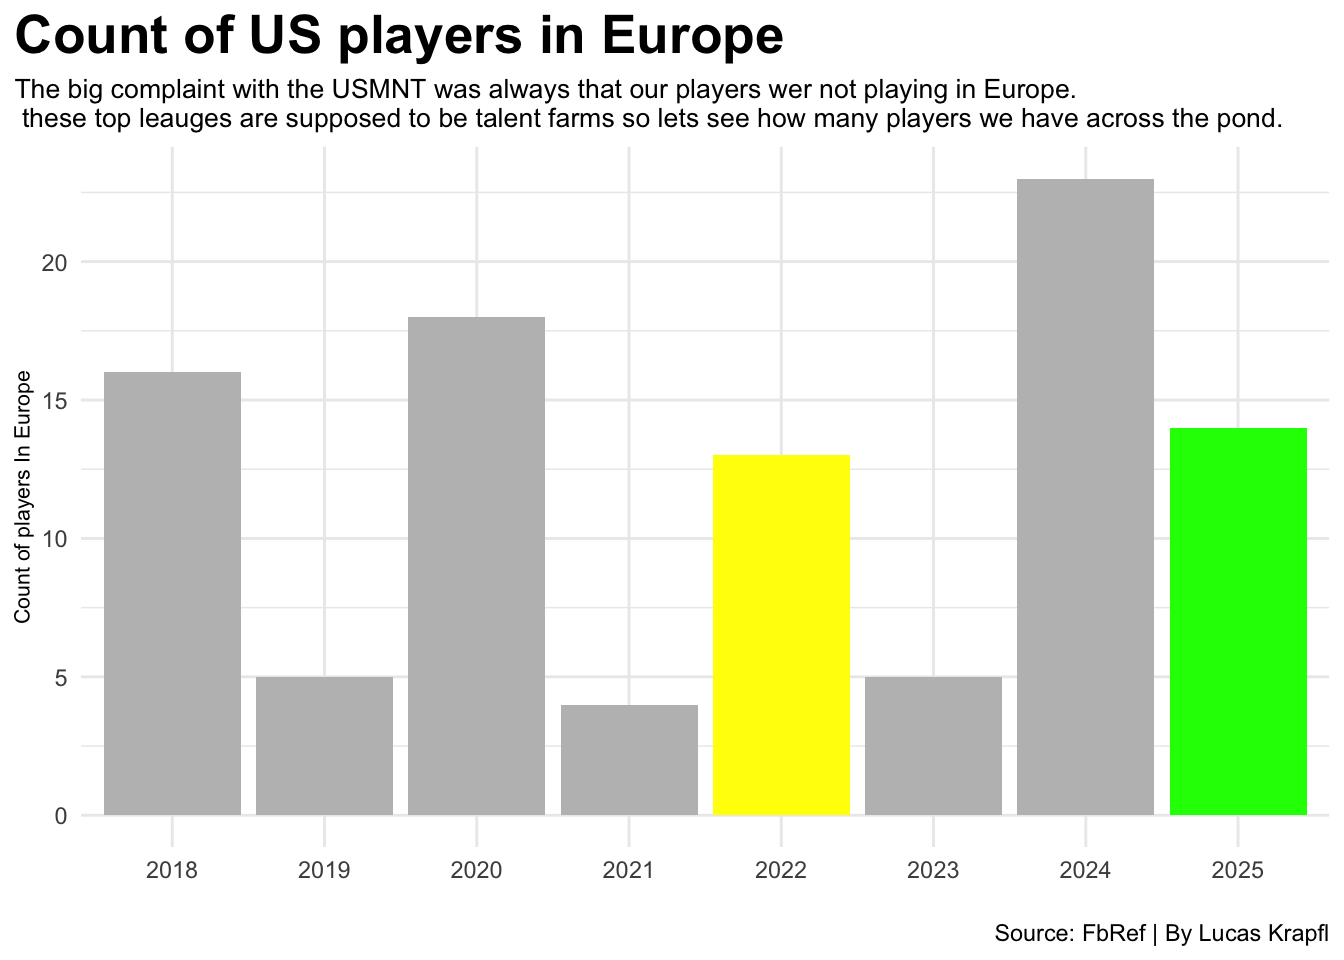
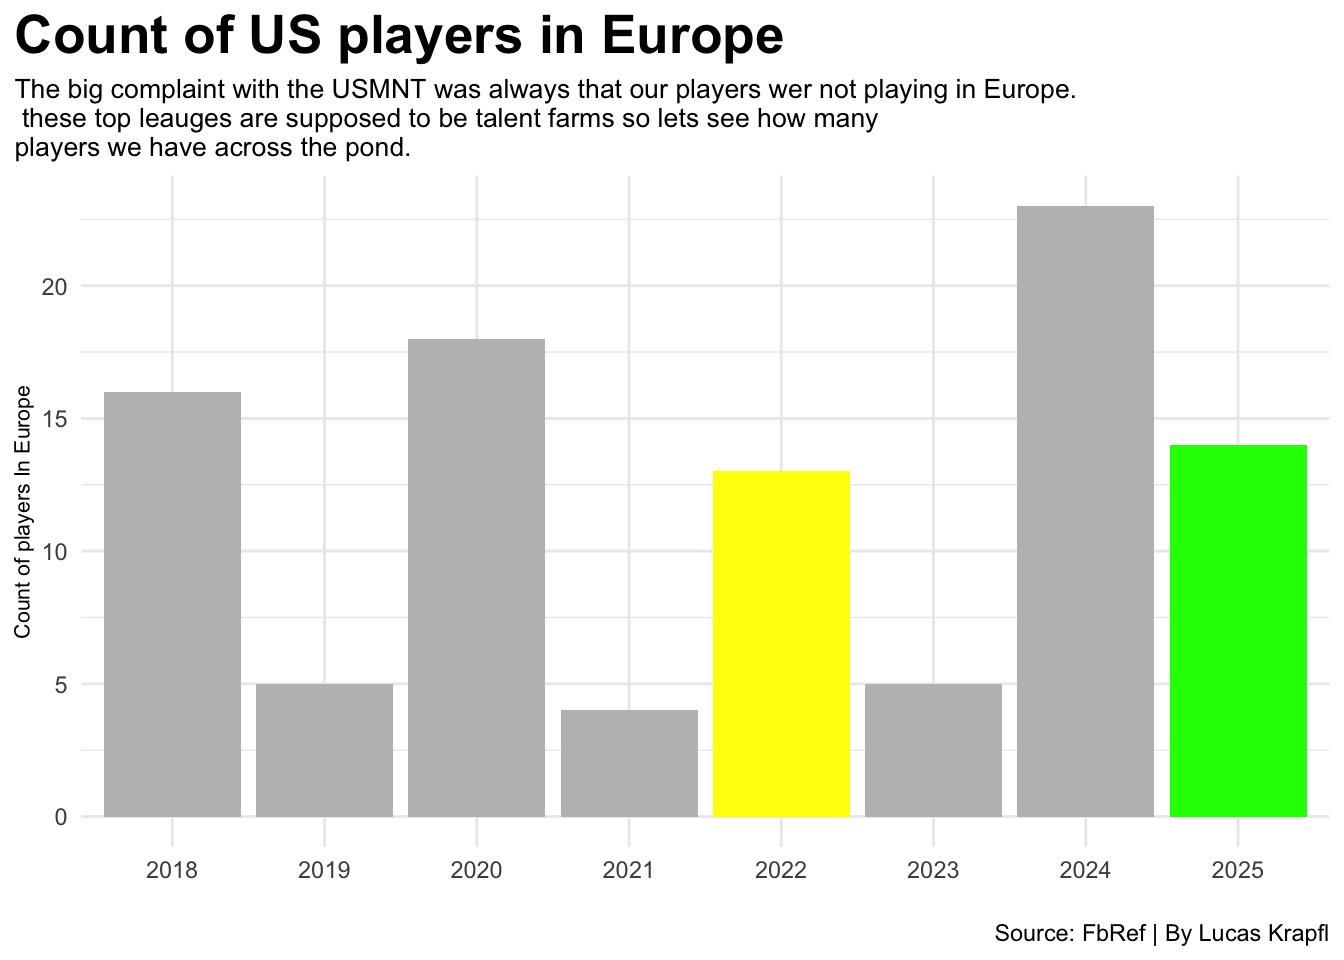
Major project 2 finishing touches

diff --git a/posts/USMNT-Project/index.html b/posts/USMNT-Project/index.html
@@ -407,7 +407,7 @@ pre > code.sourceCode > span > a:first-child::before { text-decoration: underlin
 <span id="cb2-2"><a href="#cb2-2" aria-hidden="true" tabindex="-1"></a>  <span class="fu">geom_bump</span>(<span class="at">data=</span>FifaRank, <span class="fu">aes</span>(<span class="at">x=</span>Year, <span class="at">y=</span>Rank, <span class="at">color=</span>Squad)) <span class="sc">+</span></span>
 <span id="cb2-3"><a href="#cb2-3" aria-hidden="true" tabindex="-1"></a>  <span class="fu">geom_point</span>(<span class="at">data=</span>FifaRank, <span class="fu">aes</span>(<span class="at">x=</span>Year, <span class="at">y=</span>Rank, <span class="at">color=</span>Squad), <span class="at">size =</span> <span class="dv">4</span>) <span class="sc">+</span></span>
 <span id="cb2-4"><a href="#cb2-4" aria-hidden="true" tabindex="-1"></a><span class="fu">scale_y_reverse</span>(<span class="at">breaks =</span> <span class="fu">seq</span>(<span class="dv">25</span>, <span class="dv">10</span>, <span class="sc">-</span><span class="dv">1</span>))<span class="sc">+</span></span>
-<span id="cb2-5"><a href="#cb2-5" aria-hidden="true" tabindex="-1"></a>  <span class="fu">labs</span>(<span class="at">title=</span><span class="st">"Offical Fifa world rankings since 2018"</span>, <span class="at">subtitle=</span><span class="st">"Ever since the crash and burn in 2018</span><span class="sc">\n</span><span class="st"> you have heard about the USMNT's 'golden generation', and the rankings reflect </span><span class="sc">\n</span><span class="st">that but are they accurate of the results?"</span>, <span class="at">y=</span> <span class="st">"Fifa World Ranking"</span>, <span class="at">x =</span> <span class="st">"Year"</span>, <span class="at">caption=</span><span class="st">"Source: FbRef | By Lucas Krapfl"</span>) <span class="sc">+</span></span>
+<span id="cb2-5"><a href="#cb2-5" aria-hidden="true" tabindex="-1"></a>  <span class="fu">labs</span>(<span class="at">title=</span><span class="st">"Offical Fifa world rankings since 2018"</span>, <span class="at">subtitle=</span><span class="st">"Ever since the crash and burn in 2018 you have heard about the USMNT's </span><span class="sc">\n</span><span class="st">'golden generation', and the rankings reflect that but are they accurate of the results?"</span>, <span class="at">y=</span> <span class="st">"Fifa World Ranking"</span>, <span class="at">x =</span> <span class="st">"Year"</span>, <span class="at">caption=</span><span class="st">"Source: FbRef | By Lucas Krapfl"</span>) <span class="sc">+</span></span>
 <span id="cb2-6"><a href="#cb2-6" aria-hidden="true" tabindex="-1"></a>  <span class="fu">theme_minimal</span>() <span class="sc">+</span></span>
 <span id="cb2-7"><a href="#cb2-7" aria-hidden="true" tabindex="-1"></a>  <span class="fu">theme</span>(</span>
 <span id="cb2-8"><a href="#cb2-8" aria-hidden="true" tabindex="-1"></a>    <span class="at">plot.title =</span> <span class="fu">element_text</span>(<span class="at">size =</span> <span class="dv">20</span>, <span class="at">face =</span> <span class="st">"bold"</span>),</span>
@@ -479,7 +479,7 @@ pre > code.sourceCode > span > a:first-child::before { text-decoration: underlin
 <span id="cb4-4"><a href="#cb4-4" aria-hidden="true" tabindex="-1"></a>  <span class="fu">geom_bar</span>(<span class="at">data=</span>EUPlayerCount, <span class="fu">aes</span>(<span class="at">x=</span><span class="fu">factor</span>(Year), <span class="at">weight=</span>European_Players), <span class="at">fill=</span><span class="st">"grey"</span>)<span class="sc">+</span></span>
 <span id="cb4-5"><a href="#cb4-5" aria-hidden="true" tabindex="-1"></a>  <span class="fu">geom_bar</span>(<span class="at">data=</span>USPlayers2025, <span class="fu">aes</span>(<span class="at">x=</span><span class="fu">factor</span>(Year), <span class="at">weight=</span>European_Players), <span class="at">fill=</span><span class="st">"green"</span>) <span class="sc">+</span></span>
 <span id="cb4-6"><a href="#cb4-6" aria-hidden="true" tabindex="-1"></a>  <span class="fu">geom_bar</span>(<span class="at">data=</span>USPlayers2022, <span class="fu">aes</span>(<span class="at">x=</span><span class="fu">factor</span>(Year), <span class="at">weight=</span>European_Players), <span class="at">fill=</span><span class="st">"yellow"</span>) <span class="sc">+</span></span>
-<span id="cb4-7"><a href="#cb4-7" aria-hidden="true" tabindex="-1"></a>  <span class="fu">labs</span>(<span class="at">title=</span><span class="st">"Count of US players in Europe"</span>, <span class="at">subtitle=</span><span class="st">"The big complaint with the USMNT was always that our players wer not playing in Europe.</span><span class="sc">\n</span><span class="st"> these top leauges are supposed to be talent farms so lets see how many players we have across the pond."</span>, <span class="at">y=</span> <span class="st">"Count of players In Europe"</span>, <span class="at">x =</span> <span class="st">""</span>, <span class="at">caption=</span><span class="st">"Source: FbRef | By Lucas Krapfl"</span>) <span class="sc">+</span></span>
+<span id="cb4-7"><a href="#cb4-7" aria-hidden="true" tabindex="-1"></a>  <span class="fu">labs</span>(<span class="at">title=</span><span class="st">"Count of US players in Europe"</span>, <span class="at">subtitle=</span><span class="st">"The big complaint with the USMNT was always that our players wer not playing in Europe.</span><span class="sc">\n</span><span class="st"> these top leauges are supposed to be talent farms so lets see how many </span><span class="sc">\n</span><span class="st">players we have across the pond."</span>, <span class="at">y=</span> <span class="st">"Count of players In Europe"</span>, <span class="at">x =</span> <span class="st">""</span>, <span class="at">caption=</span><span class="st">"Source: FbRef | By Lucas Krapfl"</span>) <span class="sc">+</span></span>
 <span id="cb4-8"><a href="#cb4-8" aria-hidden="true" tabindex="-1"></a>  <span class="fu">theme_minimal</span>() <span class="sc">+</span></span>
 <span id="cb4-9"><a href="#cb4-9" aria-hidden="true" tabindex="-1"></a>  <span class="fu">theme</span>(</span>
 <span id="cb4-10"><a href="#cb4-10" aria-hidden="true" tabindex="-1"></a>    <span class="at">plot.title =</span> <span class="fu">element_text</span>(<span class="at">size =</span> <span class="dv">20</span>, <span class="at">face =</span> <span class="st">"bold"</span>),</span>
@@ -505,7 +505,7 @@ pre > code.sourceCode > span > a:first-child::before { text-decoration: underlin
 <span id="cb4-30"><a href="#cb4-30" aria-hidden="true" tabindex="-1"></a>  <span class="fu">scale_fill_manual</span>(<span class="at">values =</span> <span class="fu">c</span>(<span class="st">"Players_Europe"</span> <span class="ot">=</span> <span class="st">"darkblue"</span>, <span class="st">"Players_NonEurope"</span> <span class="ot">=</span> <span class="st">"maroon"</span>),</span>
 <span id="cb4-31"><a href="#cb4-31" aria-hidden="true" tabindex="-1"></a>                  <span class="at">labels =</span> <span class="fu">c</span>(<span class="st">"Players_Europe"</span> <span class="ot">=</span> <span class="st">"% USMNT Players in Europe"</span>, <span class="st">"Players_NonEurope"</span> <span class="ot">=</span> <span class="st">"% USMNT Players not in Europe"</span>))<span class="sc">+</span></span>
 <span id="cb4-32"><a href="#cb4-32" aria-hidden="true" tabindex="-1"></a>  <span class="fu">coord_flip</span>()<span class="sc">+</span></span>
-<span id="cb4-33"><a href="#cb4-33" aria-hidden="true" tabindex="-1"></a>  <span class="fu">labs</span>(<span class="at">title=</span><span class="st">"Players in European Leagues vs. Non-European"</span>, <span class="at">subtitle=</span><span class="st">"The old argument used to be that if the US got players in Europe we would be a threat on the national level</span><span class="sc">\n</span><span class="st">however lets look at the increase in the recent years and how we still have not won anything."</span>, <span class="at">y=</span> <span class="st">"Percent Players Per Leauge"</span>, <span class="at">x =</span> <span class="st">""</span>, <span class="at">caption=</span><span class="st">"Source: FbRef | By Lucas Krapfl"</span>) <span class="sc">+</span></span>
+<span id="cb4-33"><a href="#cb4-33" aria-hidden="true" tabindex="-1"></a>  <span class="fu">labs</span>(<span class="at">title=</span><span class="st">"Players in European Leagues vs. Non-European"</span>, <span class="at">subtitle=</span><span class="st">"The old argument used to be that if the US got players in Europe we would be a threat on the national level</span><span class="sc">\n</span><span class="st">however lets look at the increase in the recent years despite bad results."</span>, <span class="at">y=</span> <span class="st">"Percent Players Per Leauge"</span>, <span class="at">x =</span> <span class="st">""</span>, <span class="at">caption=</span><span class="st">"Source: FbRef | By Lucas Krapfl"</span>) <span class="sc">+</span></span>
 <span id="cb4-34"><a href="#cb4-34" aria-hidden="true" tabindex="-1"></a>  <span class="fu">theme_minimal</span>() <span class="sc">+</span></span>
 <span id="cb4-35"><a href="#cb4-35" aria-hidden="true" tabindex="-1"></a>  <span class="fu">theme</span>(</span>
 <span id="cb4-36"><a href="#cb4-36" aria-hidden="true" tabindex="-1"></a>    <span class="at">plot.title =</span> <span class="fu">element_text</span>(<span class="at">size =</span> <span class="dv">20</span>, <span class="at">face =</span> <span class="st">"bold"</span>),</span>
@@ -547,7 +547,7 @@ pre > code.sourceCode > span > a:first-child::before { text-decoration: underlin
 <span id="cb6-9"><a href="#cb6-9" aria-hidden="true" tabindex="-1"></a>  <span class="fu">coord_flip</span>() <span class="sc">+</span></span>
 <span id="cb6-10"><a href="#cb6-10" aria-hidden="true" tabindex="-1"></a>  <span class="fu">labs</span>(</span>
 <span id="cb6-11"><a href="#cb6-11" aria-hidden="true" tabindex="-1"></a>    <span class="at">title =</span> <span class="st">"Annual contract value of USMNT stars</span><span class="sc">\n</span><span class="st">2018 vs 2024"</span>,</span>
-<span id="cb6-12"><a href="#cb6-12" aria-hidden="true" tabindex="-1"></a>    <span class="at">subtitle =</span> <span class="st">"Since 2022 Chelsea have signed A LOT of players, but so has everyone else.</span><span class="sc">\n</span><span class="st">With all this spending you think there would be some big trophies to show for it..."</span>,</span>
+<span id="cb6-12"><a href="#cb6-12" aria-hidden="true" tabindex="-1"></a>    <span class="at">subtitle =</span> <span class="st">"Since 2018 lots of US players have signed big contracts with top European teams.</span><span class="sc">\n</span><span class="st">The narrative used to be that we did not have superserstars in top competion so lets see </span><span class="sc">\n</span><span class="st">the contracts our stars have earned."</span>,</span>
 <span id="cb6-13"><a href="#cb6-13" aria-hidden="true" tabindex="-1"></a>    <span class="at">y =</span> <span class="st">"2018 Annual Salary (Millions)"</span>,</span>
 <span id="cb6-14"><a href="#cb6-14" aria-hidden="true" tabindex="-1"></a>    <span class="at">x =</span> <span class="st">""</span>,</span>
 <span id="cb6-15"><a href="#cb6-15" aria-hidden="true" tabindex="-1"></a>   <span class="at">caption=</span><span class="st">"Source: TransferMarket | By Lucas Krapfl"</span> )<span class="sc">+</span></span>
@@ -600,7 +600,7 @@ pre > code.sourceCode > span > a:first-child::before { text-decoration: underlin
 <span id="cb7-9"><a href="#cb7-9" aria-hidden="true" tabindex="-1"></a>  <span class="fu">geom_text_repel</span>(</span>
 <span id="cb7-10"><a href="#cb7-10" aria-hidden="true" tabindex="-1"></a>    <span class="at">data=</span>Stars2018, </span>
 <span id="cb7-11"><a href="#cb7-11" aria-hidden="true" tabindex="-1"></a>    <span class="fu">aes</span>(<span class="at">x=</span>Position, <span class="at">y=</span>Goal_Contributions, <span class="at">label=</span>Player))<span class="sc">+</span></span>
-<span id="cb7-12"><a href="#cb7-12" aria-hidden="true" tabindex="-1"></a>    <span class="fu">labs</span>(<span class="at">title=</span><span class="st">"USMNT Player Goal Contributions 2018 + 2024"</span>, <span class="at">subtitle=</span><span class="st">"This gives us a good look at tactical, personell, and result changes since 2018.</span><span class="sc">\n</span><span class="st">With this being the most talented roster ever, lets see how the goal contributions are shared, or lack there of."</span>,  <span class="at">caption=</span><span class="st">"Source: FbRef | By Lucas Krapfl"</span>) <span class="sc">+</span></span>
+<span id="cb7-12"><a href="#cb7-12" aria-hidden="true" tabindex="-1"></a>    <span class="fu">labs</span>(<span class="at">title=</span><span class="st">"USMNT Player Goal Contributions 2018 + 2024"</span>, <span class="at">subtitle=</span><span class="st">"This gives us a good look at tactical, personell, and result changes since 2018.</span><span class="sc">\n</span><span class="st">With this being the most talented roster ever, lets see how the goal contributions are </span><span class="sc">\n</span><span class="st">shared, or lack there of."</span>,  <span class="at">caption=</span><span class="st">"Source: FbRef | By Lucas Krapfl"</span>) <span class="sc">+</span></span>
 <span id="cb7-13"><a href="#cb7-13" aria-hidden="true" tabindex="-1"></a>  <span class="fu">theme_minimal</span>() <span class="sc">+</span></span>
 <span id="cb7-14"><a href="#cb7-14" aria-hidden="true" tabindex="-1"></a>  <span class="fu">theme</span>(</span>
 <span id="cb7-15"><a href="#cb7-15" aria-hidden="true" tabindex="-1"></a>    <span class="at">plot.title =</span> <span class="fu">element_text</span>(<span class="at">size =</span> <span class="dv">20</span>, <span class="at">face =</span> <span class="st">"bold"</span>),</span>

diff --git a/index.html b/index.html
@@ -373,7 +373,7 @@ window.Quarto = {
 
 <div class="quarto-listing quarto-listing-container-default" id="listing-listing">
 <div class="list quarto-listing-default">
-<div class="quarto-post image-right" data-index="0" data-categories="VVNNTlQlMkNXb3JsZGN1cCUyQ3NvY2NlciUyQ2Zvb3RiYWxs" data-listing-date-sort="1777266000000" data-listing-file-modified-sort="1777263501183" data-listing-date-modified-sort="NaN" data-listing-reading-time-sort="10" data-listing-word-count-sort="1888">
+<div class="quarto-post image-right" data-index="0" data-categories="VVNNTlQlMkNXb3JsZGN1cCUyQ3NvY2NlciUyQ2Zvb3RiYWxs" data-listing-date-sort="1777266000000" data-listing-file-modified-sort="1777322303521" data-listing-date-modified-sort="NaN" data-listing-reading-time-sort="10" data-listing-word-count-sort="1890">
 <div class="thumbnail"><a href="./posts/USMNT-Project/index.html" class="no-external">
 
 <img loading="lazy" src="./posts/USMNT-Project/USMNT.jpeg" class="thumbnail-image">
